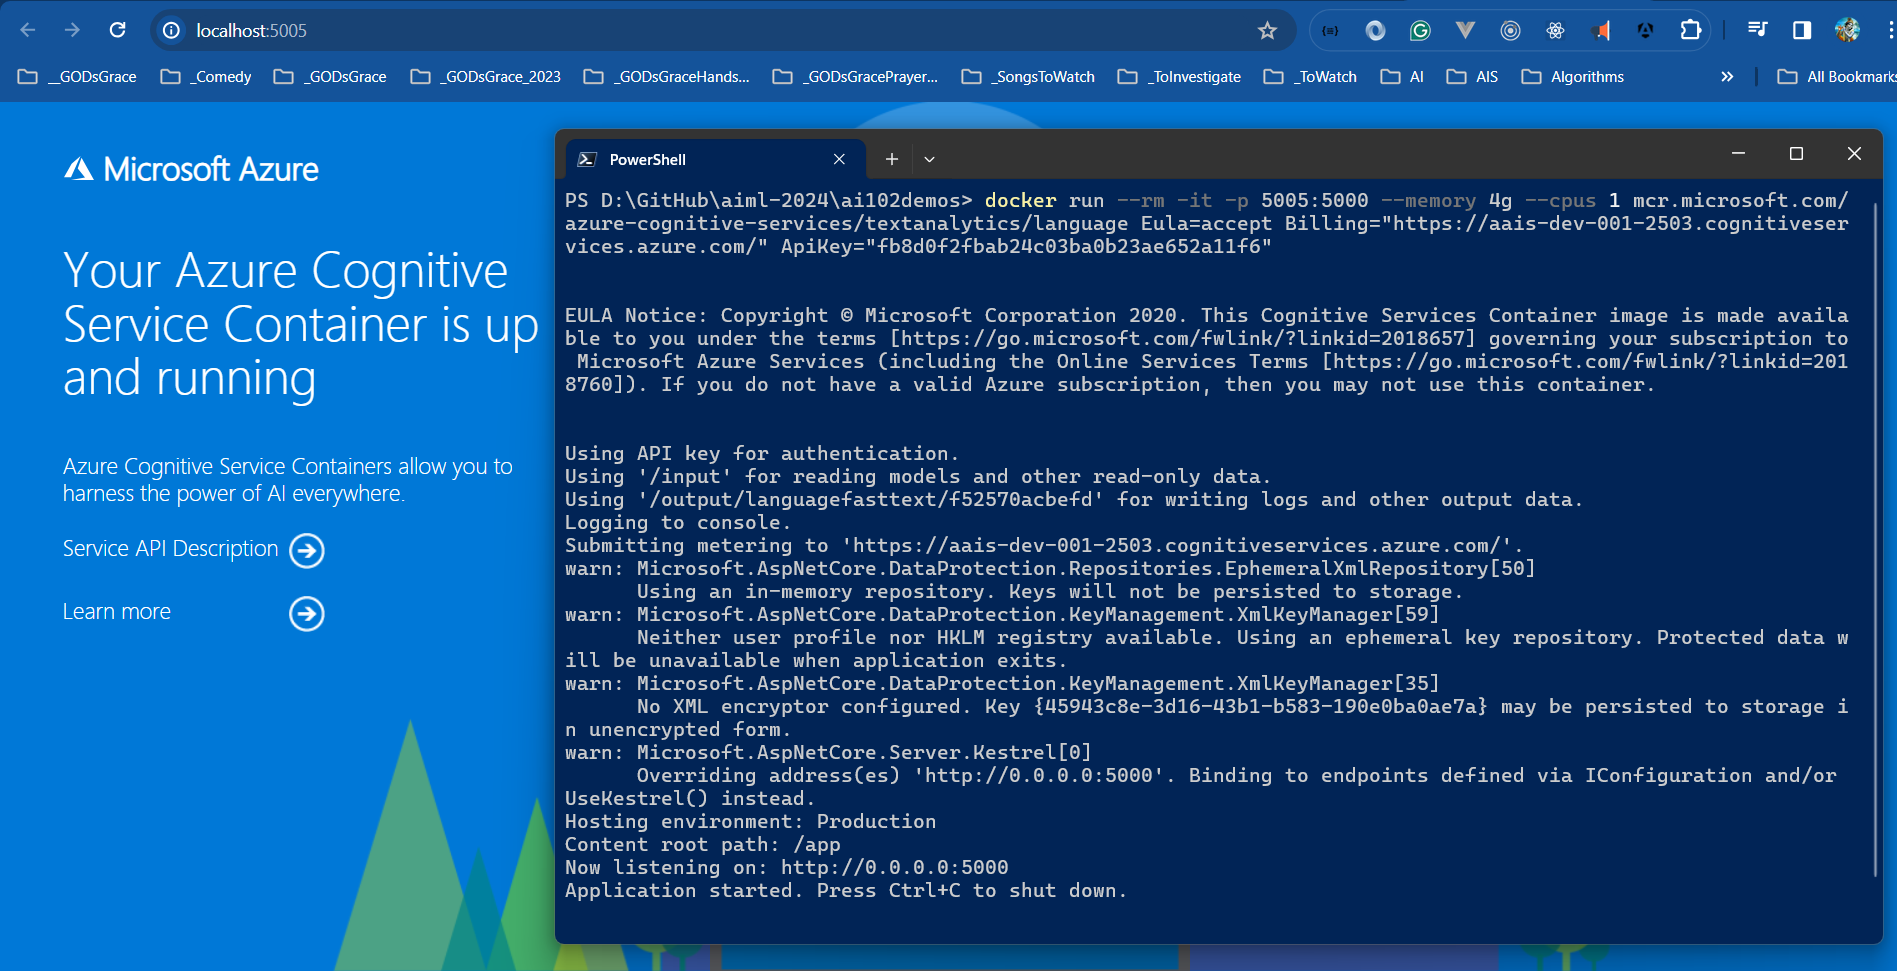
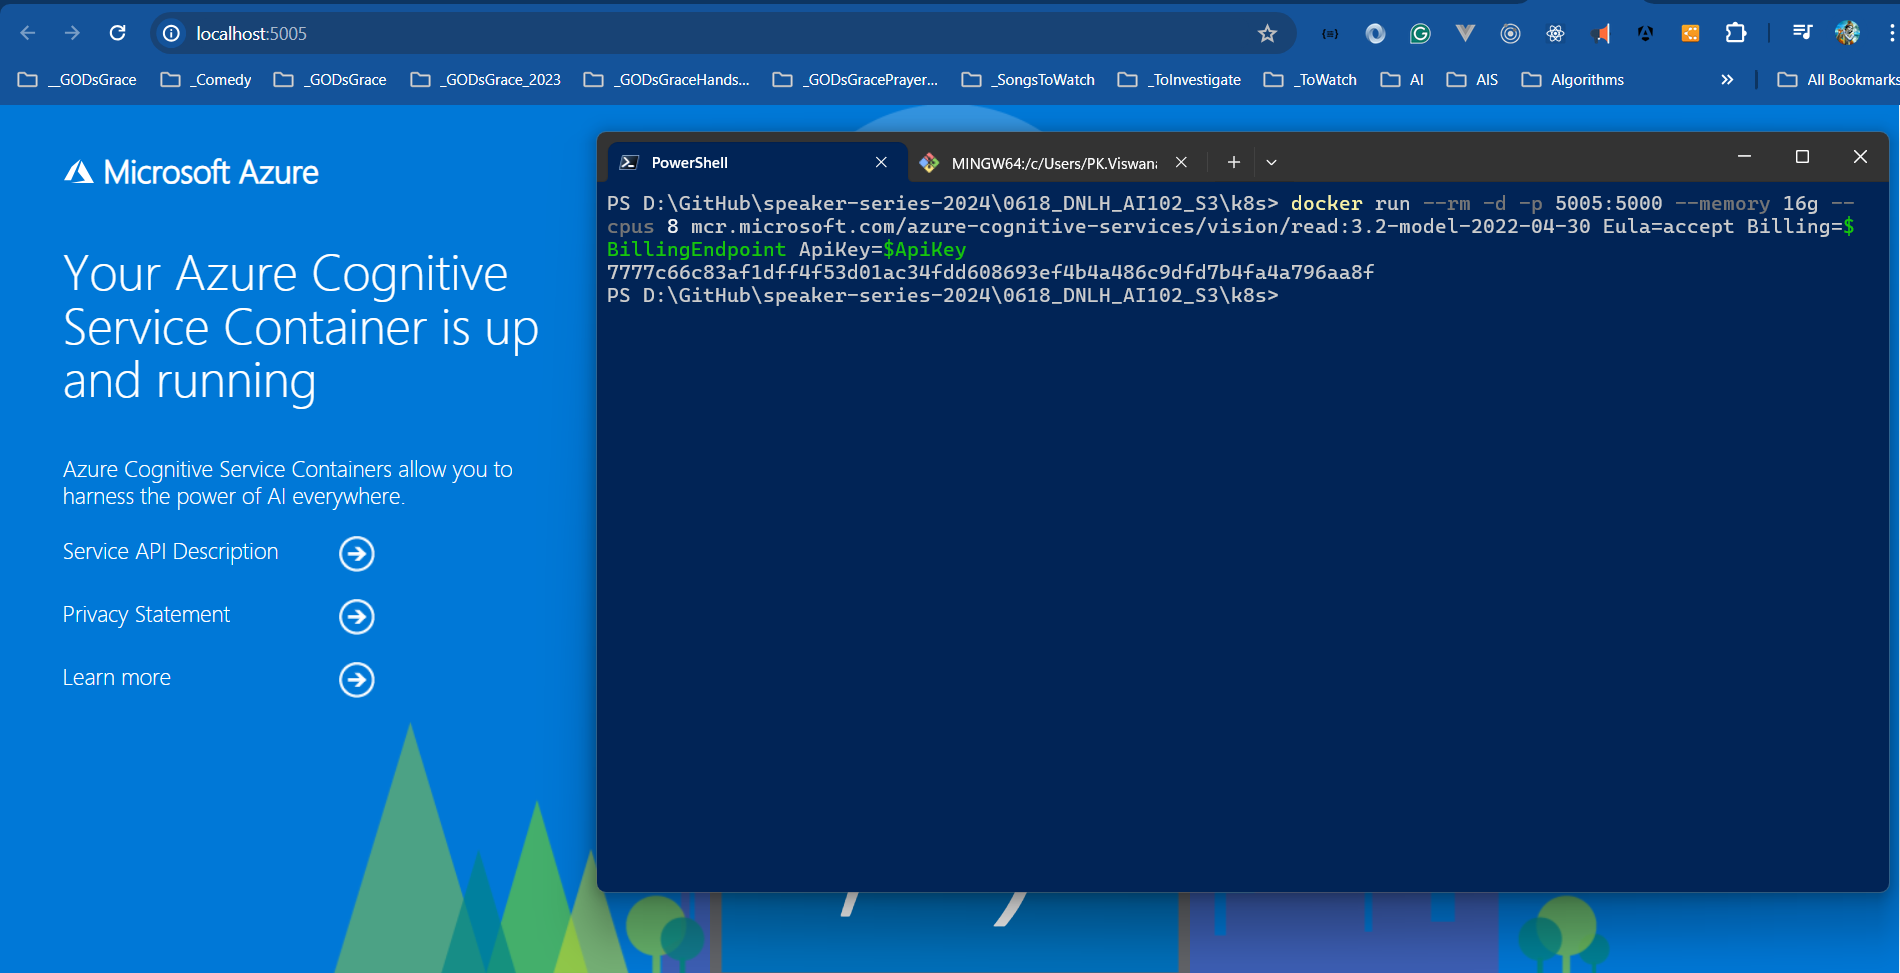
Swamy/18jun work (#60)
* Documentation Updates

* Update README.md

* Create deployment.yaml

* Update deployment.yaml

* Update README.md

* Changes

* Changes

* Update deployment.yaml

* Changes

diff --git a/0618_DNLH_AI102_S3/README.md b/0618_DNLH_AI102_S3/README.md
@@ -42,12 +42,13 @@
 > 1. Understand containers
 >    - `Docker` installed Locally
 > 1. Use Azure AI services containers
-> 1. Deploy Azure AI services in containers
+> 1. Deploy Azure AI services in `Local Docker` containers
 >    - Provision an Azure AI Services resource
 >    - Retrieving AI Services Keys
 >    - Deploy and run a Text Analytics container on Local Docker
 >    - Verify Local Docker Container using `Browser`
->    - Verify Local Docker Container using `CURL`
+>    - Verify Local Docker Container using `Postman`
+> 1. Deploy Azure AI services containers on Azure Container Instance
 >    - Deploy and run a Text Analytics container on Azure Container Instance
 >    - Verify Text Analytics container on Azure Container Instance using `CURL`
 >    - Verify Text Analytics container on Azure Container Instance using `Postman`
@@ -90,7 +91,7 @@
 
 > 1. Discussion and Demo
 
-## 4. Deploy Azure AI services in containers
+## 4. Deploy Azure AI services in `Local Docker` containers
 
 > 1. Discussion and Demo
 
@@ -126,10 +127,10 @@ az cognitiveservices account keys regenerate --name $aaisvs --resource-group $rg
 #### Pull in docker image
 
 ```powershell
-docker pull mcr.microsoft.com/azure-cognitive-services/textanalytics/language:latest
+docker pull mcr.microsoft.com/azure-cognitive-services/vision/read:3.2-model-2022-04-30
 ```
 
-![Text Analytics Docker Image Pull | 100x100](./Documentation/Images/AAIServices_Docker_Pull.PNG)
+![Read Analytics Docker Image Pull | 100x100](./Documentation/Images/AAIServices_Docker_Pull.PNG)
 
 #### Running the docker image
 
@@ -137,50 +138,55 @@ docker pull mcr.microsoft.com/azure-cognitive-services/textanalytics/language:la
 $ApiKey="111e11c1b111111c11111c11c1c1f11e"
 $BillingEndpoint="https://YourEndpoint.cognitiveservices.azure.com/"
 
-docker run --rm -it -p 5005:5000 --memory 4g --cpus 1 mcr.microsoft.com/azure-cognitive-services/textanalytics/language Eula=accept Billing=$BillingEndpoint ApiKey=$ApiKey
+docker run --rm -it -p 5005:5000 --memory 16g --cpus 8 mcr.microsoft.com/azure-cognitive-services/vision/read:3.2-model-2022-04-30 Eula=accept Billing=$BillingEndpoint ApiKey=$ApiKey
+
+docker run --rm -d -p 5005:5000 --memory 16g --cpus 8 mcr.microsoft.com/azure-cognitive-services/vision/read:3.2-model-2022-04-30 Eula=accept Billing=$BillingEndpoint ApiKey=$ApiKey
 ```
 
 ### 4.4. Verify Local Docker Container using `Browser`
 
-![Text Analytics Docker Image Run | 100x100](./Documentation/Images/AAIServices_Docker_Run.PNG)
+![Read Analytics Docker Image Run | 100x100](./Documentation/Images/AAIServices_Docker_Run.PNG)
 
-### 4.5. Verify Local Docker Container using `CURL`
+### 4.5. Verify Local Docker Container using `Postman`
 
 > 1. Discussion and Demo
 
-```powershell
-curl -X POST "http://localhost:5005/text/analytics/v3.1/languages" -H "Content-Type: application/json" --data-ascii "{'documents':[{'id':1,'text':'காலை வணக்கம்'},{'id':2,'text':'Salut tout le monde.'}]}"
+![Read Analysis Docker using CURL | 100x100](./Documentation/Images/AAIServices_ReadAnalysis_Local_Postman.PNG)
+
+## 5. Deploy Azure AI services containers on Azure Container Instance
+
+> 1. Discussion and Demo
+
+### 5.1. Create ACI resource, and host the AI Service container
+
+```text
+mcr.microsoft.com/azure-cognitive-services/vision/read:3.2-model-2022-04-30
+Port=5000
+ApiKey=YourApiKey
+Billing=https://YourAccount.cognitiveservices.azure.com/
+Eula=accept
+FQDN=FriendlyName
 ```
-
-![Text Analysis Docker using CURL | 100x100](./Documentation/Images/AAIServices_TextAnalysis_Docker_Curl.PNG)
-
-## 5. Deploy and run a Text Analytics container on Azure Container Instance
-
-> 1. Discussion and Demo
 
 ![Azure Container Instance | 100x100](./Documentation/Images/AzureContainerInstance.PNG)
 
-### 5.1. Verify Text Analytics container on Azure Container Instance using `CURL`
+### 5.2. Verify Text Analytics container on Azure Container Instance using `Browser`
 
 > 1. Discussion and Demo
 
-```powershell
-curl -X POST "http://YourEndpoint.eastus.azurecontainer.io:5000/text/analytics/v3.1/languages" -H "Content-Type: application/json" --data-ascii "{'documents':[{'id':1,'text':'காலை வணக்கம்'},{'id':2,'text':'Salut tout le monde.'}]}"
-```
+![Read Analysis using Browser | 100x100](./Documentation/Images/AAIServices_ReadAnalysis_ACI_Browser.PNG)
 
-![Text Analysis using CURL | 100x100](./Documentation/Images/AAIServices_TextAnalysis_Curl.PNG)
-
-### 5.2. Verify Text Analytics container on Azure Container Instance using `Postman`
+### 5.3. Verify Text Analytics container on Azure Container Instance using `Postman`
 
 > 1. Discussion and Demo
 
-![Text Analysis using Postman | 100x100](./Documentation/Images/AAIServices_TextAnalysis_Postman.PNG)
+![Text Analysis using Postman | 100x100](./Documentation/Images/AAIServices_ReadAnalysis_ACI_Postman.PNG)
 
-### 5.3. Verify Text Analytics container on Azure Container Instance using `Python` Program
+## 6. Deploy Azure AI services containers on Azure Kubernetes Service
 
-> 1. Discussion and Demo
+![Azure Container Instance | 100x100](./Documentation/Images/AAIServices_ReadAnalysis_AKS.PNG)
 
-![Text Analysis using Python Program | 100x100](./Documentation/Images/AAIServices_TextAnalysis_Python.PNG)
+![Azure Container Instance | 100x100](./Documentation/Images/AAIServices_ReadAnalysis_AKS_Browser.PNG)
 
 ---
 
@@ -190,3 +196,7 @@ curl -X POST "http://YourEndpoint.eastus.azurecontainer.io:5000/text/analytics/v
 > 2. Any open queries, I will get back through meetup chat/twitter.
 
 ---
+
+```powershell
+curl -X POST "http://localhost:5005/text/analytics/v3.1/languages" -H "Content-Type: application/json" --data-ascii "{'documents':[{'id':1,'text':'காலை வணக்கம்'},{'id':2,'text':'Salut tout le monde.'}]}"
+```
